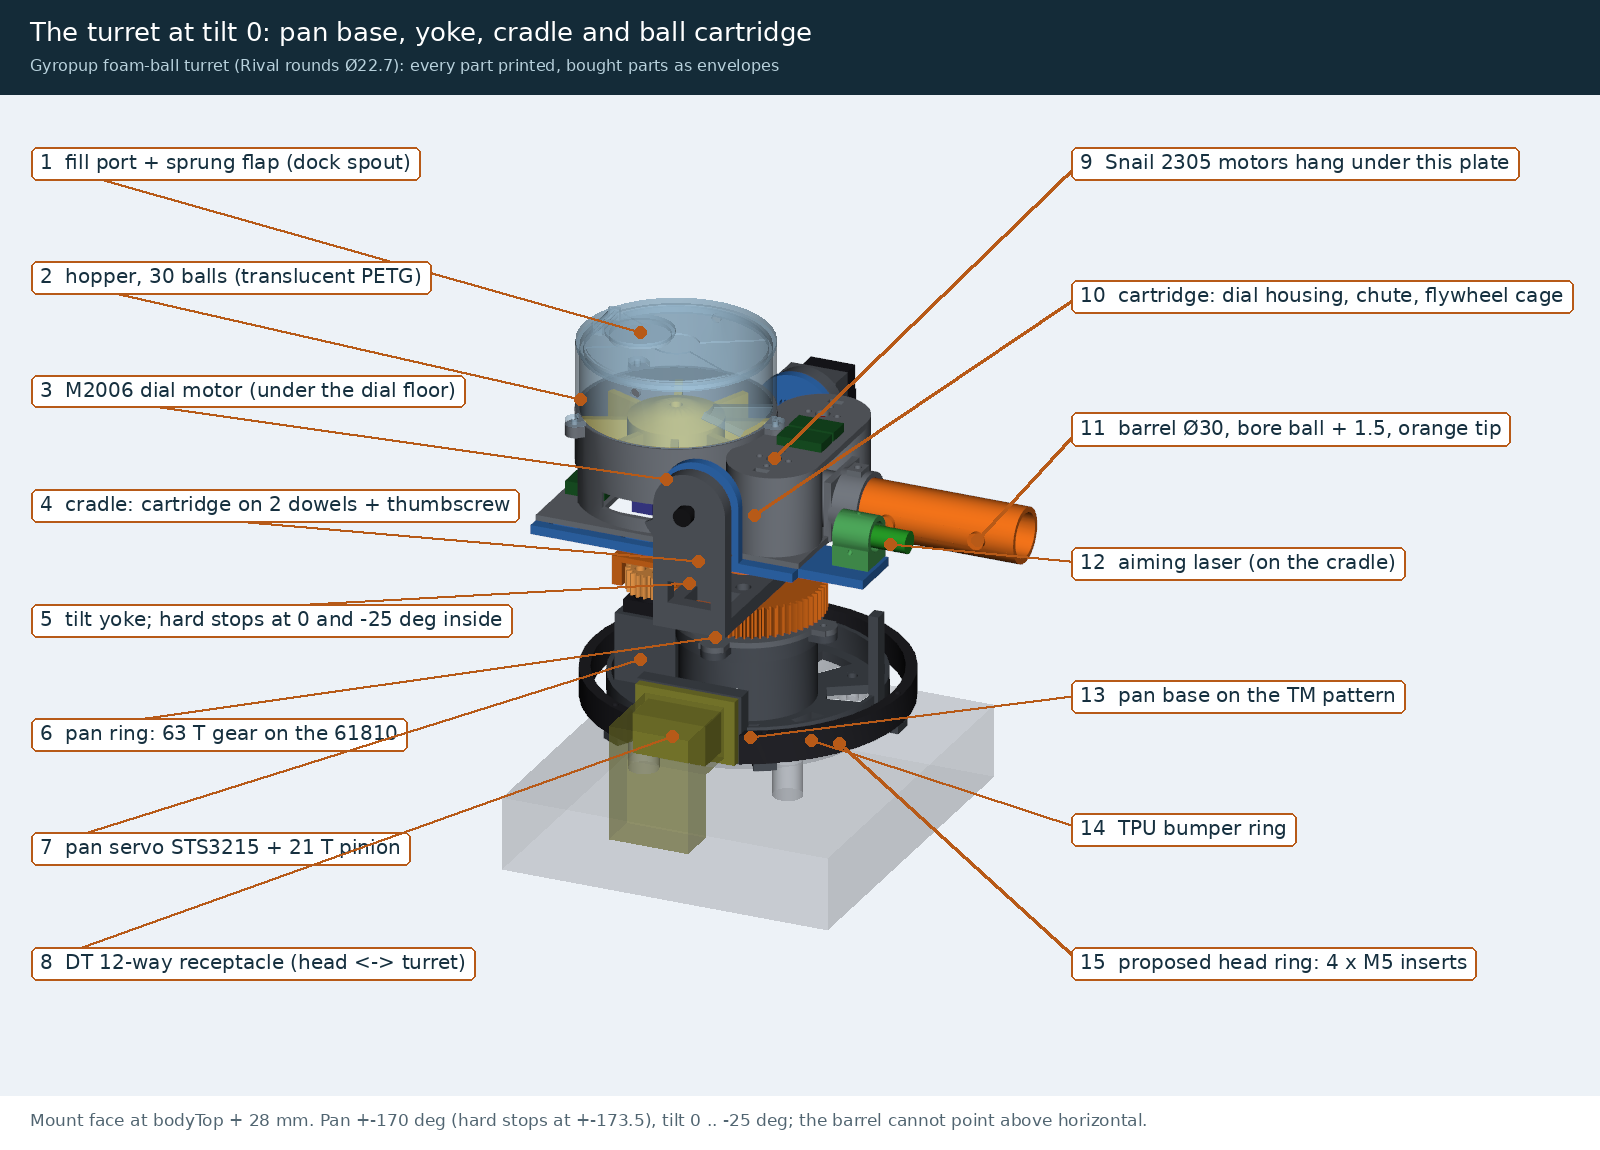
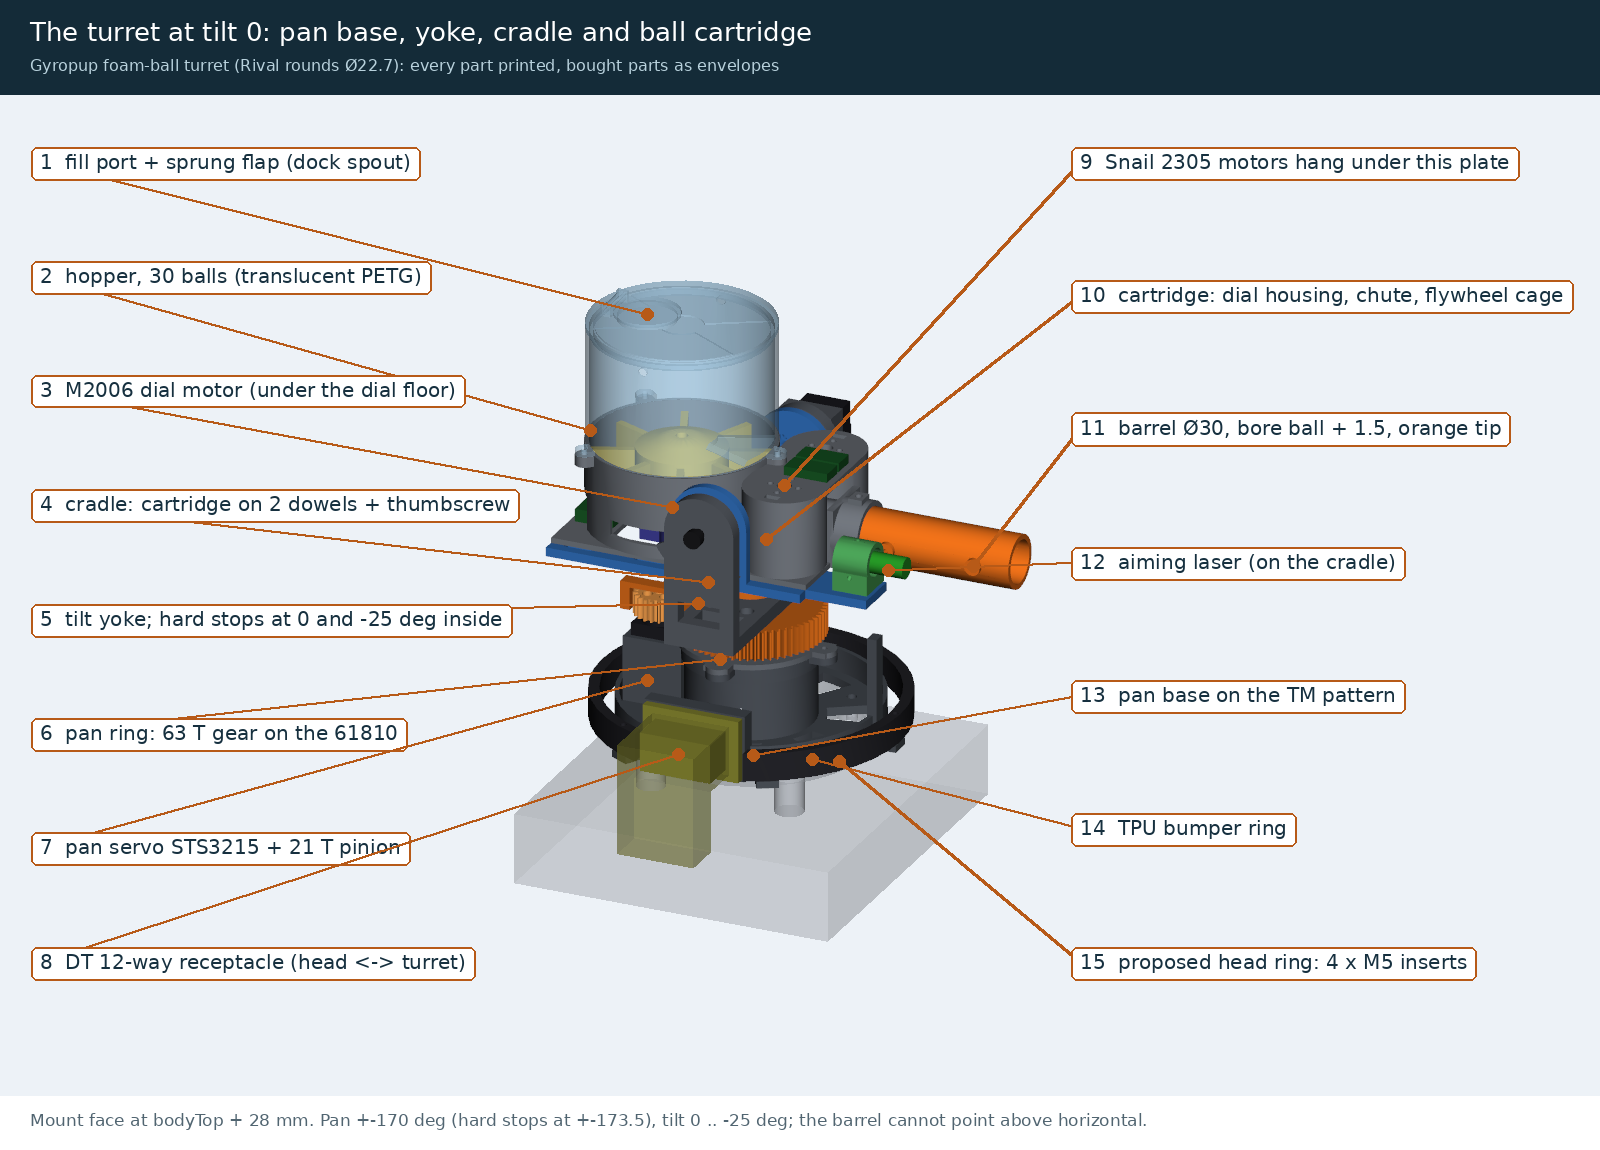
Turret: Ø36 tyres at 25 % crush, a 30-ball hopper that really holds 30, the CT interface sized to the cartridge
From the launch model (sim/turret_launch.py): 12 % crush let the ball's speed swing with the
foam, 25 % holds it; Ø36 TPU tyres (4 mm on a Ø28 hub rim) on the regulated 12 V flywheel rail keep
the worst ball under 70 fps at 100 % throttle. The wheels sit 53 mm apart, so the cage narrows.

From the feed simulation (sim/turret_feed.py): only 15-16 balls fitted under the old 70 mm lid;
the hopper now rises to 100 mm in the cartridge frame (34 fit, settled and jostled).

The CT dowels and thumbscrew are placed 6 mm inside the cartridge's sides instead of at fixed
+-49 mm, which the narrower cartridge put on top of the cradle's cheek; the MR126 relief is 1.3 mm
deep; the cradle's horn screws are M3 x 12 with the head 9.5 mm from the horn (full flange
engagement, no tip through it). Build: 1.344 kg with 30 balls, no clashes.

diff --git a/cad/turret.py b/cad/turret.py
@@ -123,7 +123,7 @@ class Geo:
     """Every size that follows from the ball. ball_d: Rival rounds are 22.2-22.8 mm (study 2.1); 22.7 is the design
     ball. Bores and pockets are ball + 1.5 mm."""
 
-    def __init__(self, ball_d: float = 22.7, wheel_d: float = 40.0, crush: float = 0.12):
+    def __init__(self, ball_d: float = 22.7, wheel_d: float = 36.0, crush: float = 0.25):
         self.ball = ball_d
         self.bore = ball_d + 1.5
         self.br = self.bore / 2
@@ -140,16 +140,21 @@ class Geo:
         self.dial_z0 = self.floor_z + 0.75
         self.dial_h = 20.0
         self.housing_top = 35.0
-        self.hopper_top = 70.0
+        # the lid's underside: a physics fill (sim/turret_feed.py, 40 balls jostled in) fits 15-16 balls under 70 mm,
+        # 29 under 95 and 34 under 100, so 100 holds the 30-ball load with room to spare
+        self.hopper_top = 100.0
         self.exit_x = float(self.rp)                             # the exit hole under the front pocket
         self.ball_z_dial = self.floor_z + ball_d / 2             # ball centre in a pocket
         self.chute_r = self.ball_z_dial                          # the chute turns the ball down to the path (z = 0)
         self.chute_cx = self.exit_x + self.chute_r               # centre of the turn, at (chute_cx, chute_r)
-        # flywheels: crush ~12 % of the ball (2.7 mm on 22.7)
+        # flywheels (sim/turret_launch.py): Ø36 tyres squeeze the ball 25 % (to 17.0 mm); on the regulated 12 V
+        # flywheel rail their no-load speed is the hardware ceiling (the worst ball at 100 % throttle stays under 70 fps)
         self.wheel_d = wheel_d
-        self.wheel_c = wheel_d + ball_d * (1 - crush)            # centre distance (60 for 40 mm wheels)
+        self.crush = crush
+        self.wheel_c = wheel_d + ball_d * (1 - crush)            # centre distance (53.0 for Ø36 tyres)
         self.wheel_y = self.wheel_c / 2
         self.tyre_w = 12.0
+        self.tyre_t = 4.0                                        # TPU 95A on the hub's rim
         nip = math.sqrt((wheel_d / 2) ** 2 - ((self.wheel_c - ball_d) / 2) ** 2)   # ball touches both wheels here
         self.wheel_x = math.ceil(self.chute_cx + nip + 2.0)
         self.cav_r = wheel_d / 2 + 2.0
@@ -461,7 +466,7 @@ def tilt_yoke(G):
     """Printed PA6-CF on its back (layers run along the arms): an 8 mm bridge on the turntable (4 x M4) and two 8 mm
     arms up to the tilt axis. +y arm: a pocket for the STS3215 tilt servo on its outer face, the servo's output face
     on four pads round its M2 holes (the rest relieved 1.5 mm for its label band), 4 x M2 x 12 from the arm's inner face
-    (heads sunk), its horn through a Ø26 hole; its bus plugs face outwards. -y arm: the MR126 seat on the inner face (a Ø9.4 x 1 relief in its floor, so only
+    (heads sunk), its horn through a Ø26 hole; its bus plugs face outwards. -y arm: the MR126 seat on the inner face (a Ø9.4 x 1.3 relief in its floor, so only
     the fixed outer race sits on it, not the inner race that turns with the cradle), a Ø6.5 hole for the ISO 7379
     6 x 12 shoulder screw. The hard stop: two sectors on the -y arm's inner face that the cradle's lug hits at tilt 0
     (barrel horizontal; it cannot go above) and at -25 deg."""
@@ -495,7 +500,7 @@ def tilt_yoke(G):
         s = s.cut(box(-12, 12, sgn * 36 if sgn > 0 else -57, sgn * 57 if sgn > 0 else -36, b0 - 1, b1 + 1))
     s = s.cut(cyl_y(13.0, a0 - 1, a1 + 1, 0, zt))                                           # servo horn
     s = s.cut(cyl_y(MR126['D'] / 2, -a0 - MR126['B'], -a0 + 3, 0, zt))                      # MR126 seat (inner face)
-    s = s.cut(cyl_y(4.7, -a0 - MR126['B'] - 1.0, -a0 - MR126['B'] + 0.01, 0, zt))          # relief: only the outer race sits
+    s = s.cut(cyl_y(4.7, -a0 - MR126['B'] - 1.3, -a0 - MR126['B'] + 0.01, 0, zt))          # relief: only the outer race sits
     s = s.cut(cyl_y(3.25, -a1 - 1, -a0, 0, zt))
     s = s.cut(cyl_z(15.0, b0 - 1, b1 + 1))                                                  # cable
     for (x, y) in YOKE_BOLTS:
@@ -535,14 +540,16 @@ def cradle(G):
     s = s.cut(cyl_y(3.25, c0 - 1, G.arm_y[1], xt, zt))                                            # over the horn's centre screw
     for k in range(4):                                                                            # 4 x M3 into the horn, heads sunk
         hx, hz = polar(SERVO['horn_pcd'] / 2, math.pi / 4 + k * math.pi / 2)
-        s = s.cut(cyl_y(FAST['M3']['clear'] / 2, c0 - 1, G.arm_y[1], xt + hx, zt + hz)).cut(cyl_y(2.9, c0 - 1, c0 + 3.2, xt + hx, zt + hz))
-    for (x, y) in CT_DOWELS:
+        # M3 x 12 into the horn's 2.5 mm flange: the head sits 9.5 from the horn's face (no tip past the flange)
+        s = s.cut(cyl_y(FAST['M3']['clear'] / 2, c0 - 1, G.arm_y[1], xt + hx, zt + hz)).cut(cyl_y(2.9, c0 - 1, G.arm_y[1] - SERVO['horn_t'] - 9.5, xt + hx, zt + hz))
+    ct_dowels, ct_latch = ct_points(G)
+    for (x, y) in ct_dowels:
         s = s.cut(cyl_z(2.0, z0 - 1, z1 + 1, x, y))
-    s = s.cut(through_z(*CT_LATCH, FAST['M4']['clear'], z0 - 1, z1 + 1))
+    s = s.cut(through_z(*ct_latch, FAST['M4']['clear'], z0 - 1, z1 + 1))
     for x in (LASER_X[0] + 4, LASER_X[1] - 4):
         s = s.cut(through_z(x, LASER_Y, FAST['M3']['clear'], z0 - 1, z1 + 1))
     # lightening windows in the rails, kept 4 mm clear of every CT hole and off the cheeks
-    holes = CT_DOWELS + [CT_LATCH]
+    holes = ct_dowels + [ct_latch]
     for sgn in (1, -1):
         yc = sgn * (r0 + r1) / 2
         for xa, half in RAIL_WINDOWS:
@@ -553,9 +560,14 @@ def cradle(G):
     return s
 
 
-CT_DOWELS = [(-20.0, 49.0), (75.0, -49.0)]
 RAIL_WINDOWS = [(-38.0, 8.0), (2.0, 8.0), (82.0, 4.0)]             # (centre x, half length); C frame
-CT_LATCH = (20.0, -49.0)
+def ct_points(G):
+    """The CT interface (cradle <-> cartridge), C frame: two Ø4 x 8 dowels and the M4 captive thumbscrew up through the
+    cradle's rail into an insert in the cartridge's base, 6 mm inside the cartridge's sides."""
+    yy = G.cage_y - 6.0
+    return [(-20.0, yy), (75.0, -yy)], (20.0, -yy)
+
+
 LASER_X = (106.0, 126.0)
 LASER_Y = -32.0
 
@@ -619,10 +631,11 @@ def cartridge_body(G):
         hx, hy = polar(M2006['pcd'] / 2, math.radians(a))
         s = s.cut(through_z(hx, hy, FAST['M3']['clear'], fz - G.floor_t - 1, fz + 1))
         s = s.cut(cq.Workplane('XY').circle(1.7).workplane(offset=1.8).circle(3.5).loft().translate((hx, hy, fz - 1.79)))
-    for (x, y) in CT_DOWELS:
+    ct_dowels, ct_latch = ct_points(G)
+    for (x, y) in ct_dowels:
         s = s.cut(cyl_z(2.0, bz0 - 1, bz0 + 2.5, x, y))
-    s = s.union(cyl_z(5.0, bz0, bz0 + 9, *CT_LATCH))
-    s = s.cut(cyl_z(FAST['M4']['insert_pilot'] / 2, bz0 - 1, bz0 + 8.0, *CT_LATCH))       # insert from below
+    s = s.union(cyl_z(5.0, bz0, bz0 + 9, *ct_latch))
+    s = s.cut(cyl_z(FAST['M4']['insert_pilot'] / 2, bz0 - 1, bz0 + 8.0, *ct_latch))       # insert from below
     for a in HOPPER_LUGS:
         s = s.cut(insert_hole(*polar(hr + 3.5, math.radians(a)), G.housing_top, 'M3', 6.0))
     return s
@@ -649,14 +662,15 @@ def ball_path(G):
 
 
 def flywheel(G):
-    """Flywheel hub, printed PA6-CF (100 % solid): a Ø32 rim for the TPU tyre, a web, and a Ø18 boss whose top face
+    """Flywheel hub, printed PA6-CF (100 % solid): a Ø28 rim for the TPU tyre, a web, and a Ø18 boss whose top face
     bolts to the Snail's wheel seat (the Ø15 boss on its bell) as DJI's own wheels do: 3 x M2 x 8 at 90/210/330 deg
     and two Ø1.6 x 4 steel pins at 0/180 deg on Ø10.3 that carry the torque, the Ø2.95 shaft in a Ø3.05 bore centring
     it. The tyre's diameter is the launch speed's hardware ceiling (study 8.3, sim/turret_launch.py)."""
     x, y = G.wheel_x, G.wheel_y
     top = G.hub_top
-    s = ring_z(16.0, 13.0, -G.tyre_w / 2, G.tyre_w / 2, x, y)
-    s = s.union(cyl_z(16.0, -3, 3, x, y)).union(cyl_z(9.0, -3, top, x, y))
+    rr = G.wheel_d / 2 - G.tyre_t                                       # the rim, under the tyre
+    s = ring_z(rr, rr - 3.0, -G.tyre_w / 2, G.tyre_w / 2, x, y)
+    s = s.union(cyl_z(rr, -3, 3, x, y)).union(cyl_z(9.0, -3, top, x, y))
     s = s.cut(cyl_z(1.525, -4, top + 1, x, y))
     for a in (90.0, 210.0, 330.0):
         hx, hy = polar(SNAIL['wheel_pcd'] / 2, math.radians(a))
@@ -664,15 +678,17 @@ def flywheel(G):
     for a in (0.0, 180.0):
         hx, hy = polar(SNAIL['wheel_pcd'] / 2, math.radians(a))
         s = s.cut(cyl_z(0.78, top - 4.0, top + 1, x + hx, y + hy))
+    rh = 0.5 * (9.0 + rr - 3.0)                                       # lightening holes midway between boss and rim
     for k in range(5):
-        hx, hy = polar(11.0, k * 2 * math.pi / 5 + math.pi / 5)
-        s = s.cut(cyl_z(1.5, -4, 4, x + hx, y + hy))
+        hx, hy = polar(rh, k * 2 * math.pi / 5 + math.pi / 5)
+        s = s.cut(cyl_z(min(1.5, (rr - 3.0 - 9.0) / 2 - 0.5), -4, 4, x + hx, y + hy))
     return s
 
 
 def flywheel_tyre(G):
-    """TPU 95A tyre, Ø40 x 12 over the Ø32 hub rim."""
-    return ring_z(G.wheel_d / 2, 16.0, -G.tyre_w / 2, G.tyre_w / 2, G.wheel_x, G.wheel_y)
+    """TPU 95A tyre, Ø36 x 12, 4 mm thick over the hub's Ø28 rim (stretched on). Print a set (Ø34, 36, 38): the
+    bench test picks the one whose fastest ball at 100 % throttle stays at or under 66 fps."""
+    return ring_z(G.wheel_d / 2, G.wheel_d / 2 - G.tyre_t, -G.tyre_w / 2, G.tyre_w / 2, G.wheel_x, G.wheel_y)
 
 
 def dial(G):
@@ -722,8 +738,8 @@ def baffle(G):
 
 
 def hopper(G):
-    """The hopper, printed PETG (translucent, so the balls show): a Ø102 tube from the dial housing to z = 70 in the
-    cartridge frame (about 0.3 L above the dial: 30 balls), the exit baffle in its bottom (see baffle()), three lugs
+    """The hopper, printed PETG (translucent, so the balls show): a Ø102 tube from the dial housing to z = 100 in the
+    cartridge frame (30 balls with the dial's pockets: sim/turret_feed.py fills it in physics), the exit baffle in its bottom (see baffle()), three lugs
     that screw to the housing (M3), and two Ø5 holes for the hopper-full IR beam near the top. Printed standing on its
     bottom rim and the baffle."""
     r_in, r_out = G.dial_wall_r, G.dial_wall_r + 2.0
@@ -1348,7 +1364,7 @@ def render(T, L, out):
         ('dial (8 pockets) on the M2006', p((-G.rp, 0, G.dial_z0 + 10))),
         ('exit hole: the ball drops ...', p((G.exit_x, 0, G.floor_z))),
         ('... and the chute turns it forward', p((G.chute_cx - 15, 0, 3))),
-        ('flywheel nip (crush 2.7 mm)', p((G.wheel_x, 4, 0))),
+        (f'flywheel nip (crush {G.crush * G.ball:.1f} mm)', p((G.wheel_x, 4, 0))),
         (f'barrel, bore Ø{G.bore:.1f}', p((G.barrel_x0 + 50, 0, G.br))),
         (f'tilt axis ({G.tilt_x:.0f} mm ahead of the dial axis)', p((G.tilt_x, 0, G.tilt_c))),
         ('M2006 + C610 under the dial floor', p((-25, 0, -5))),
